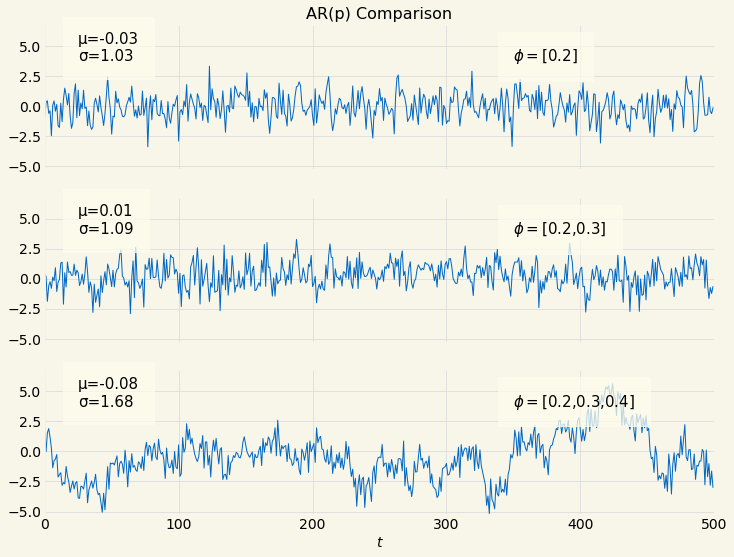
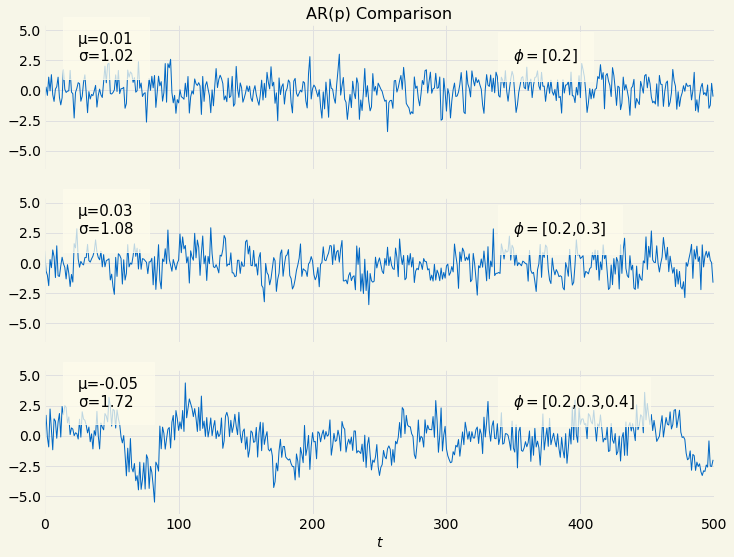
added yule-walker examples

diff --git a/hydrogen_notebooks/algorithmic_trading/mean_reversion/yule_walker_equations.py b/hydrogen_notebooks/algorithmic_trading/mean_reversion/yule_walker_equations.py
@@ -19,12 +19,22 @@ pyplot.style.use(config.glyfish_style)
 
 # %%
 
-def yule_walker_column_vector(acf, p):
-    return acf
+def yule_walker_column_vector(acf):
+    return numpy.matrix(acf[1:]).T
+
+def yule_walker_matrix(acf):
+    n = len(acf) - 1
+    result = numpy.matrix([acf[:n]])
+    row = acf[:n]
+    for i in range(1, n):
+        row = numpy.roll(row, 1)
+        row[0] = acf[i]
+        result = numpy.concatenate((result, numpy.array([row])), axis=0)
+    return result
 
 # %%
 
-n = 5000
+n = 10000
 
 φ1 = numpy.array([0.2])
 ar1 = arima.ar_generate_sample(φ1, n)
@@ -44,3 +54,21 @@ params = [r"$\phi=$"+f"{numpy.array2string(φ1, precision=2, separator=',')}",
 title = "AR(p) Comparison"
 plot_name = "yule_walker_equations_ar_comparison"
 arima.timeseries_comparison_plot(samples, params, 500, title, plot_name)
+
+# %%
+
+numpy.real(arima.autocorrelation(ar1))[:2]
+
+# %%
+
+acf = numpy.real(arima.autocorrelation(ar2))[:3]
+r = yule_walker_column_vector(acf)
+R = yule_walker_matrix(acf)
+numpy.linalg.inv(R)*r
+
+# %%
+
+acf = numpy.real(arima.autocorrelation(ar3))[:4]
+r = yule_walker_column_vector(acf)
+R = yule_walker_matrix(acf)
+numpy.linalg.inv(R)*r

diff --git a/lib/arima.py b/lib/arima.py
@@ -22,7 +22,7 @@ def arma_estimate_parameters(samples, order):
     model = sm.tsa.ARMA(samples, order).fit(trend='nc', disp=0)
     return model.params
 
-def autocorrelate(x):
+def autocorrelation(x):
     n = len(x)
     x_shifted = x - x.mean()
     x_padded = numpy.concatenate((x_shifted, numpy.zeros(n-1)))
